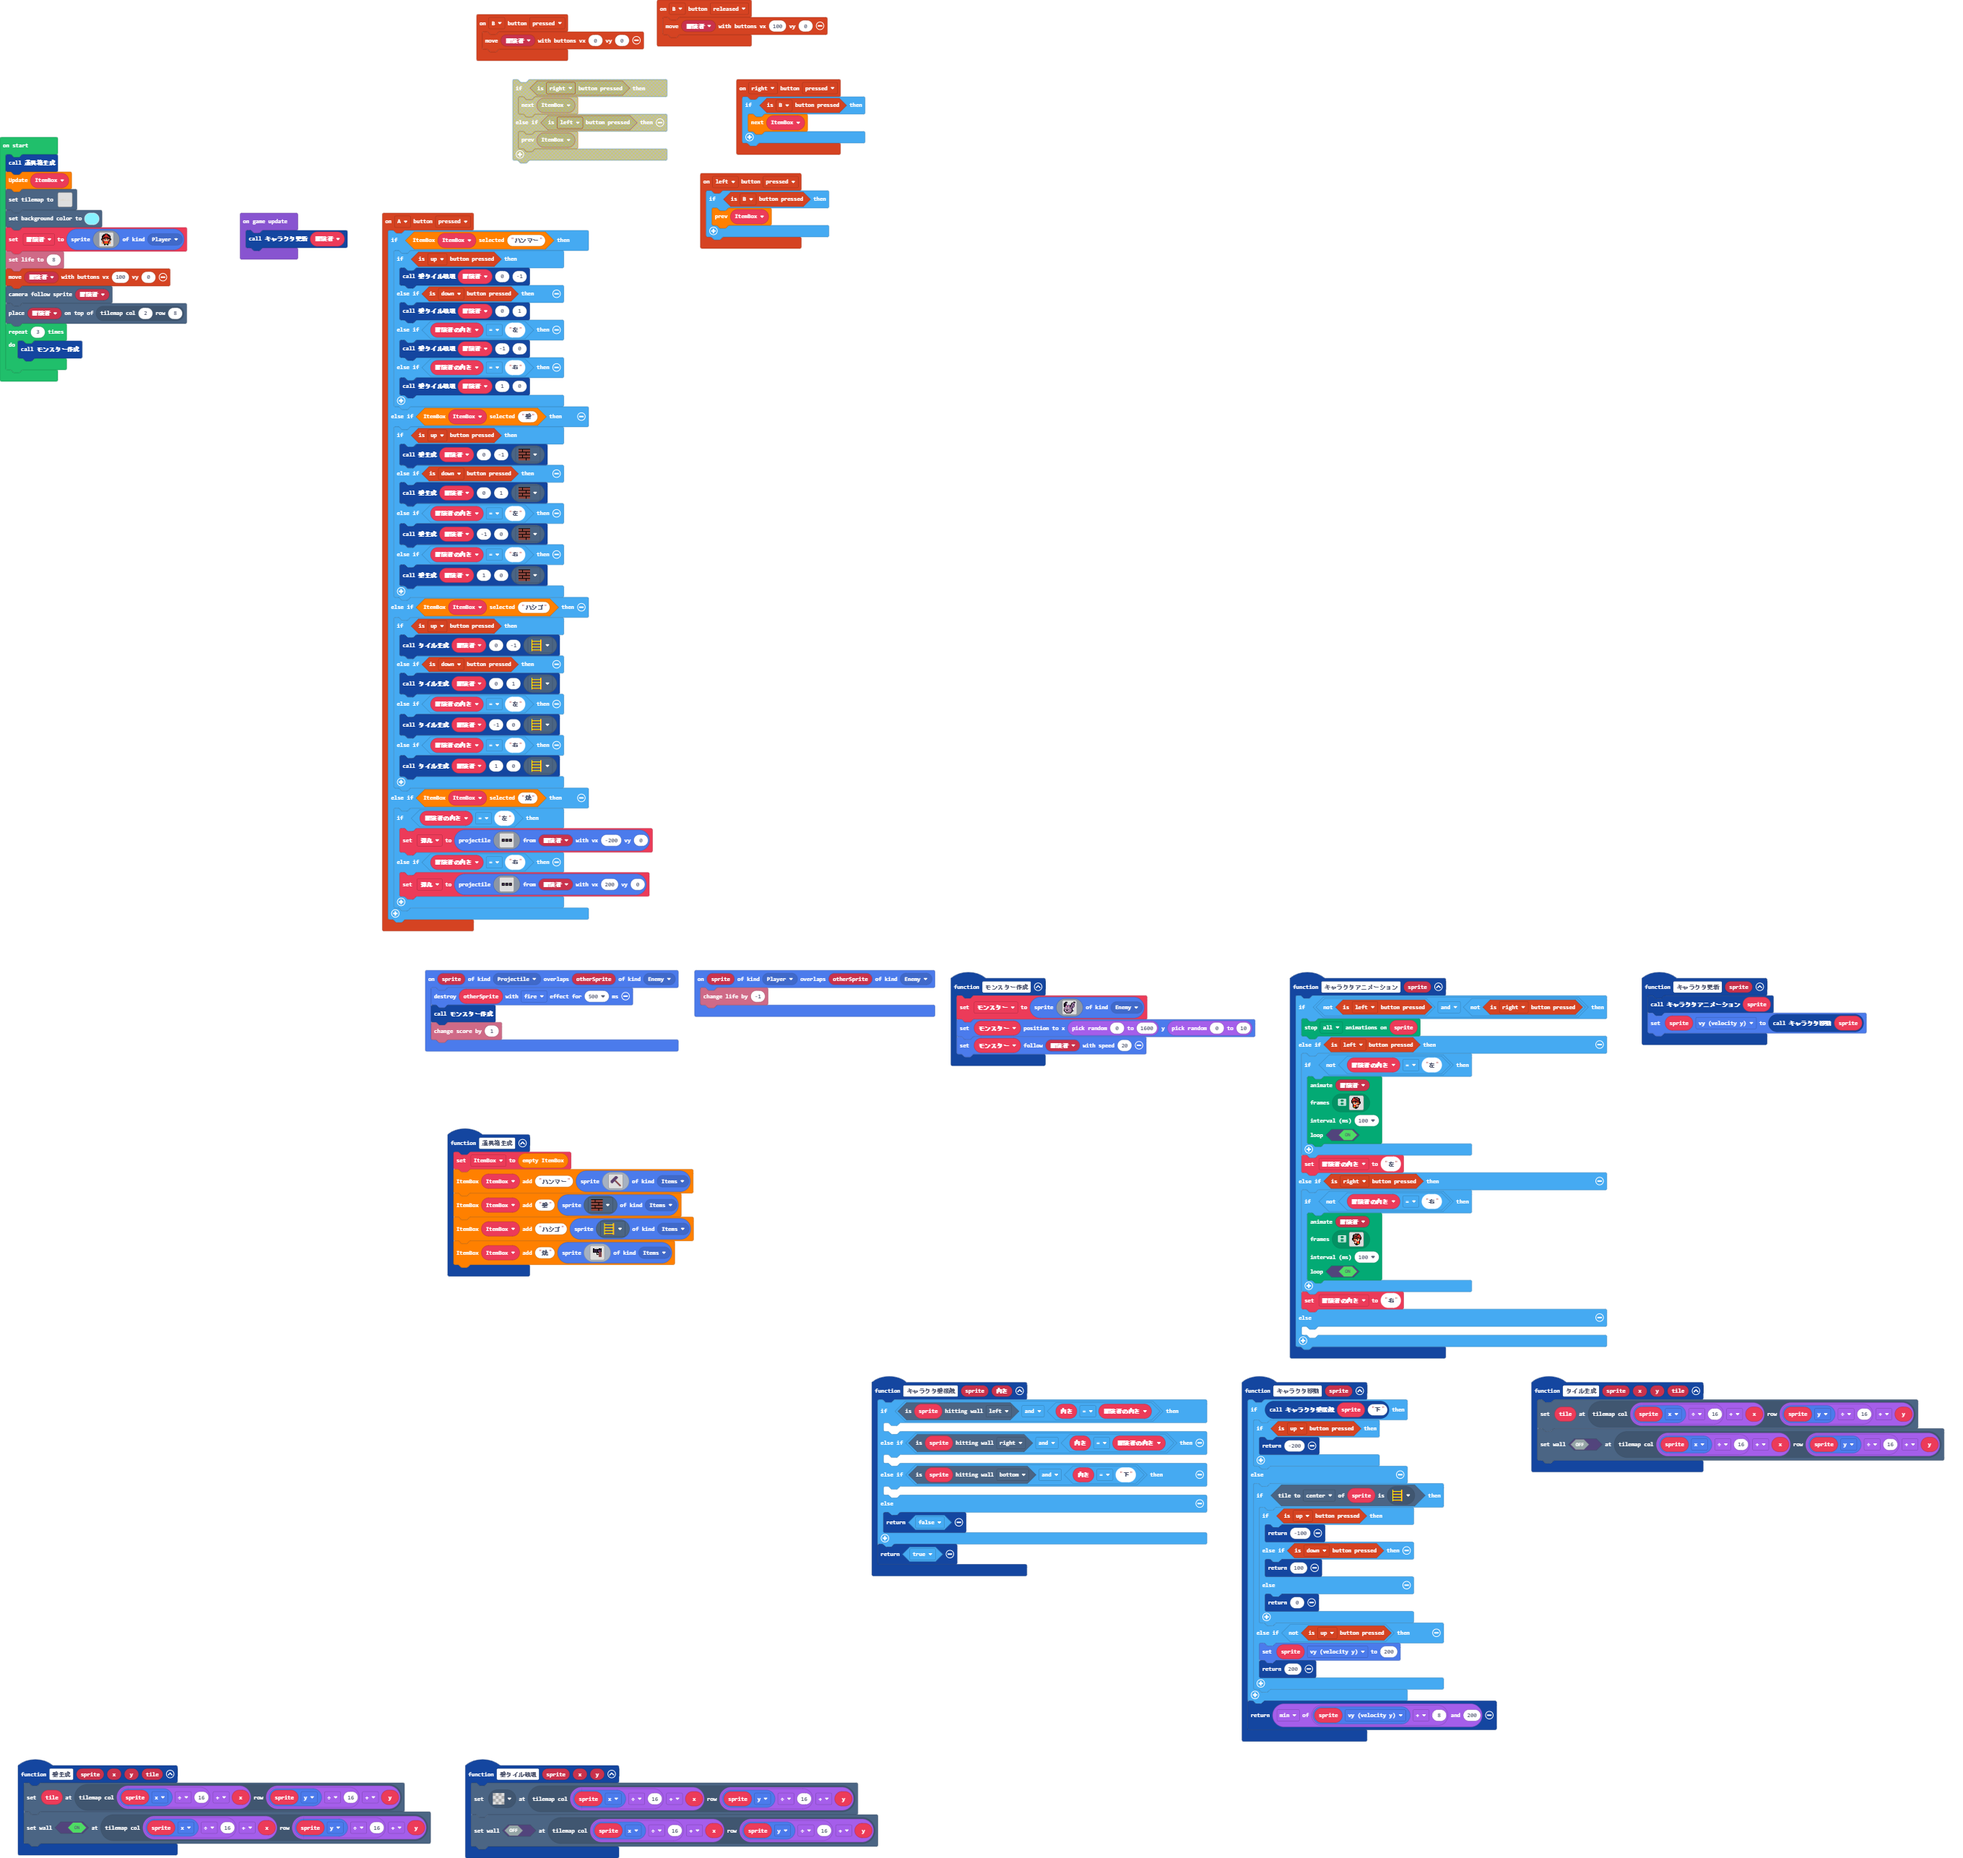
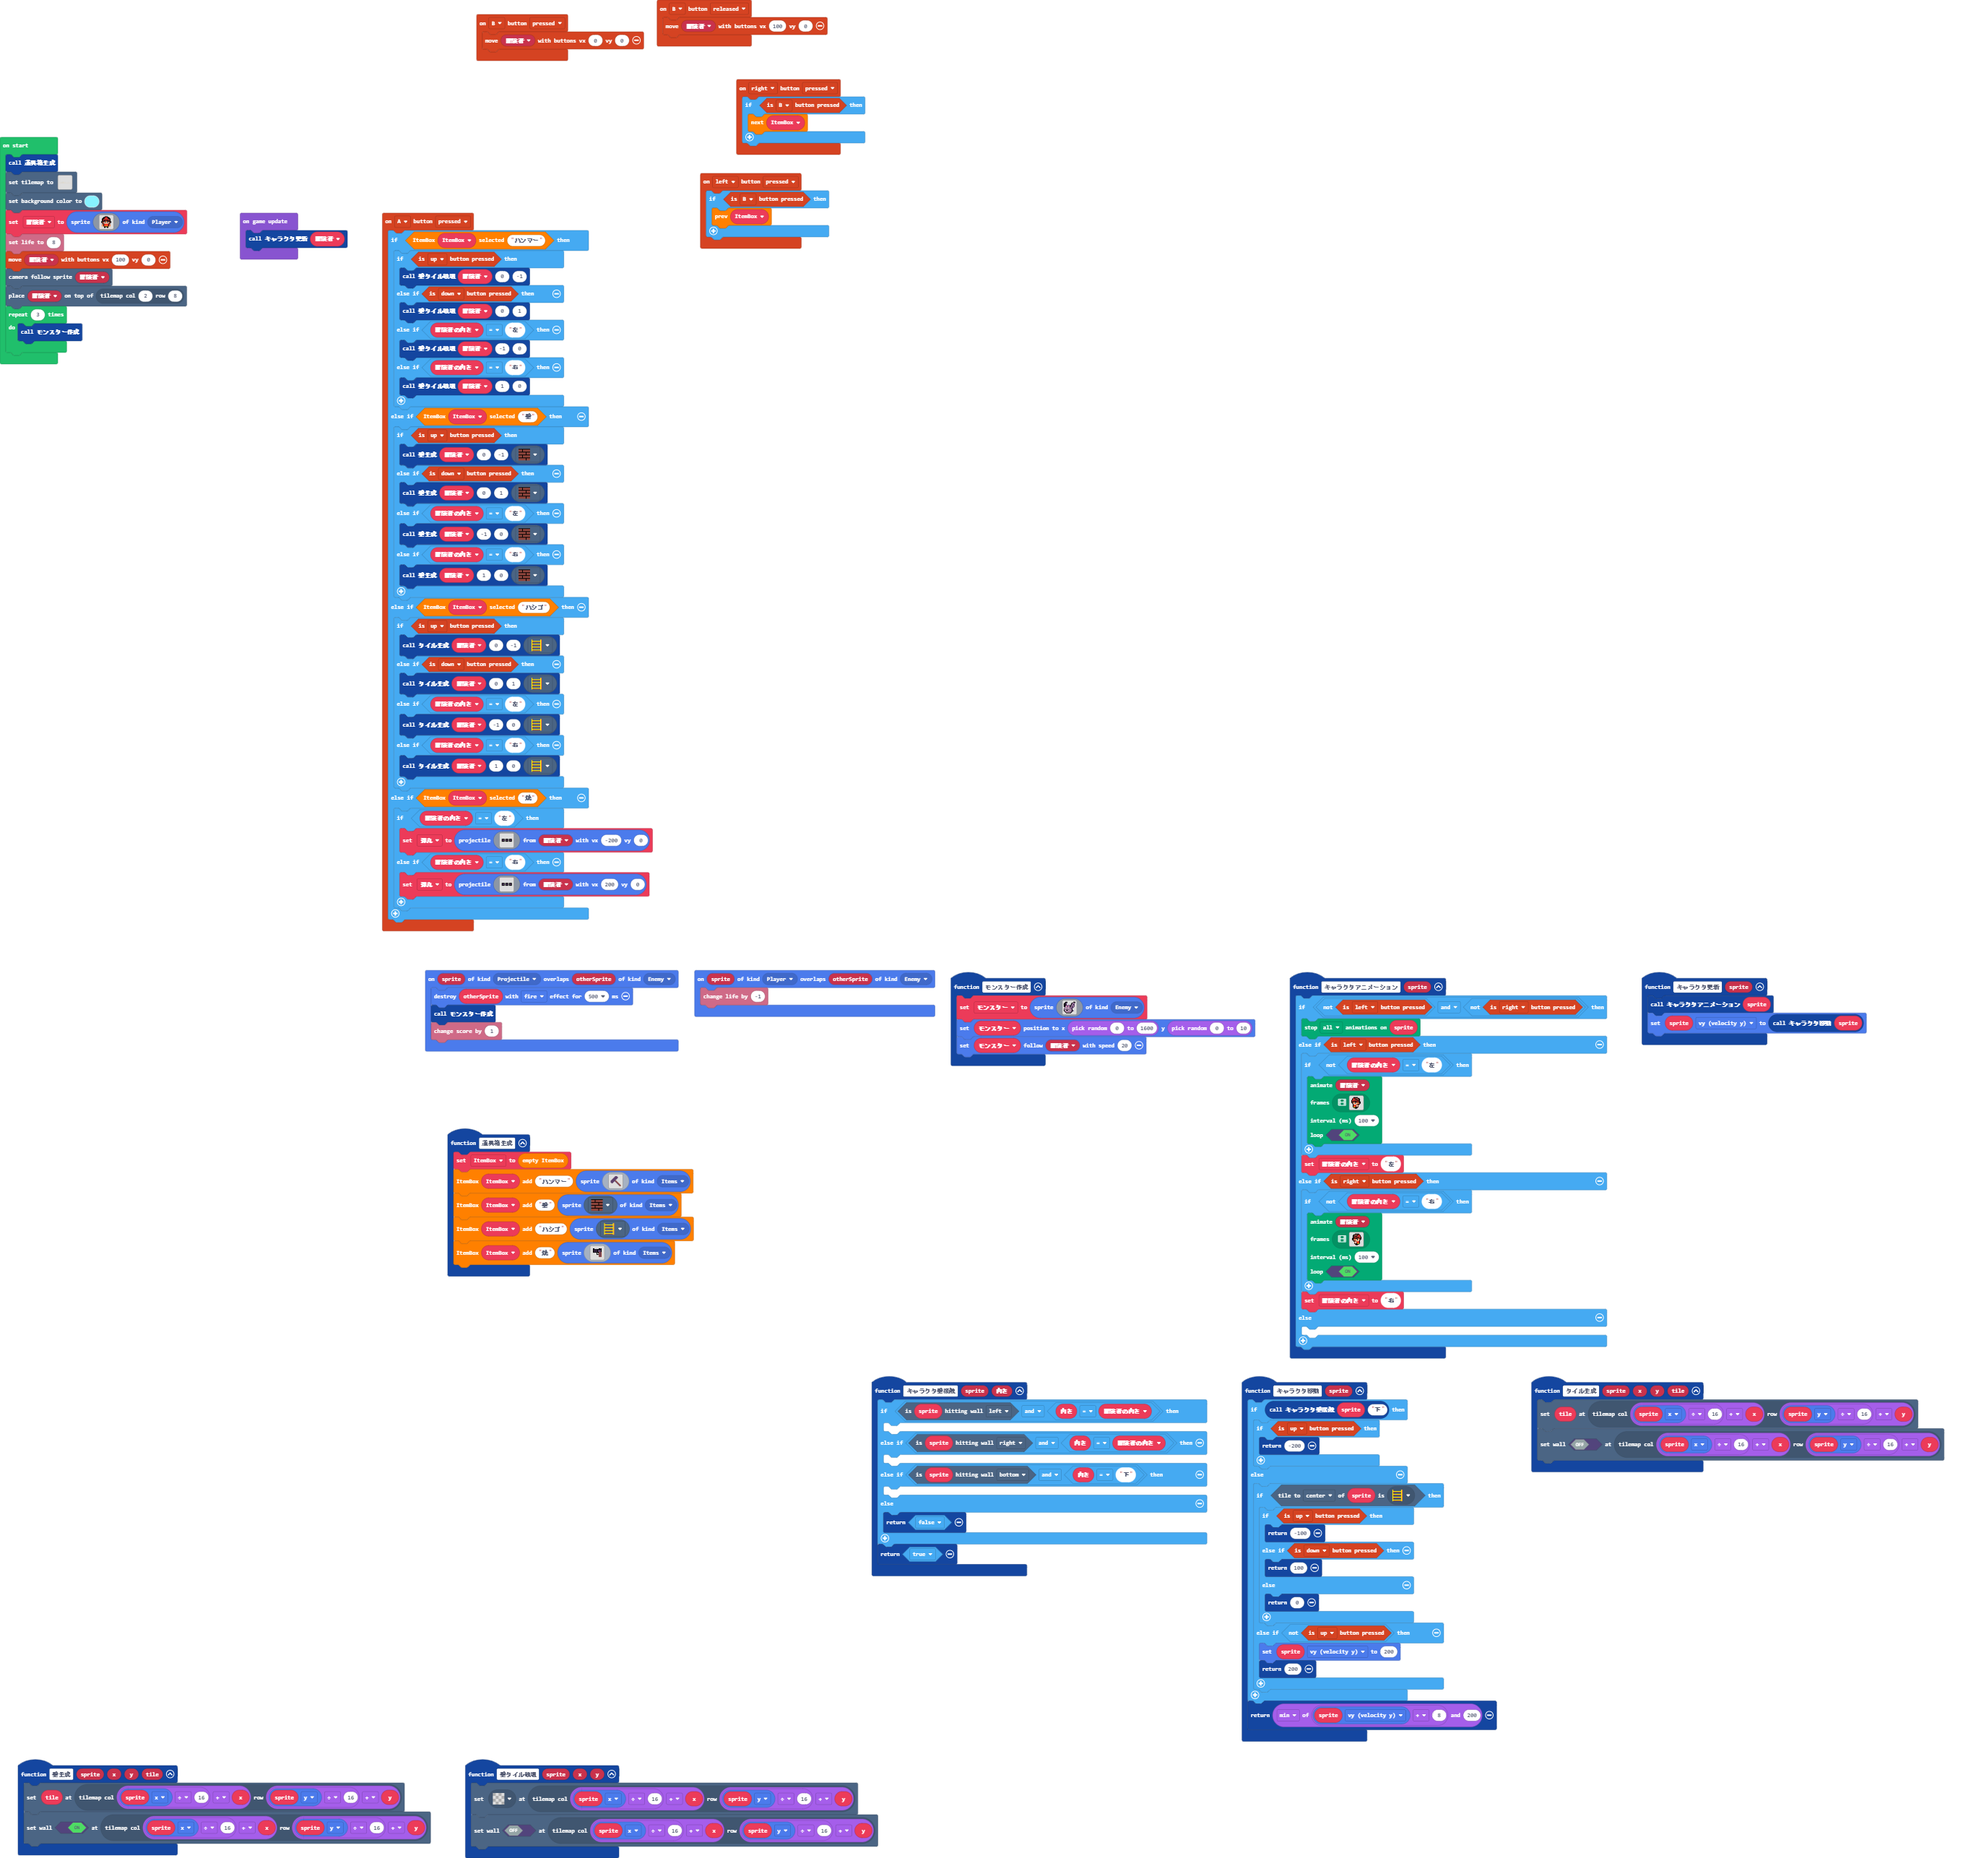
Update main.blocks, main.ts, itembox.ts

Changed region(s): [[0.0, 0.0933, 0.0927, 0.2177], [0.2472, 0.0311, 0.34, 0.0933]]

diff --git a/main.ts b/main.ts
@@ -307,11 +307,10 @@ sprites.onOverlap(SpriteKind.Player, SpriteKind.Enemy, function (sprite, otherSp
 })
 let 弾丸: Sprite = null
 let 冒険者の向き = ""
+let ItemBox2: ItemBox = null
 let モンスター: Sprite = null
 let 冒険者: Sprite = null
-let ItemBox2: ItemBox = null
 道具箱生成()
-ItemBox2.update()
 tiles.setTilemap(tilemap`level1`)
 scene.setBackgroundColor(9)
 冒険者 = sprites.create(img`

diff --git a/itembox.ts b/itembox.ts
@@ -148,15 +148,6 @@ class ItemBox {
         this._updateFocus();
     }
     
-    /**
-     * Use "$this" to define a variable block that
-     * references the "this" pointer.
-     */
-    //% block="Update $this(ItemBox)"    
-    update() {
-        this.debugPrint();
-    }
-
     _calcPos(sprite: Sprite, index: number) {
         let iconSize = sprite.image.width;
         // let iconSize = 16;
